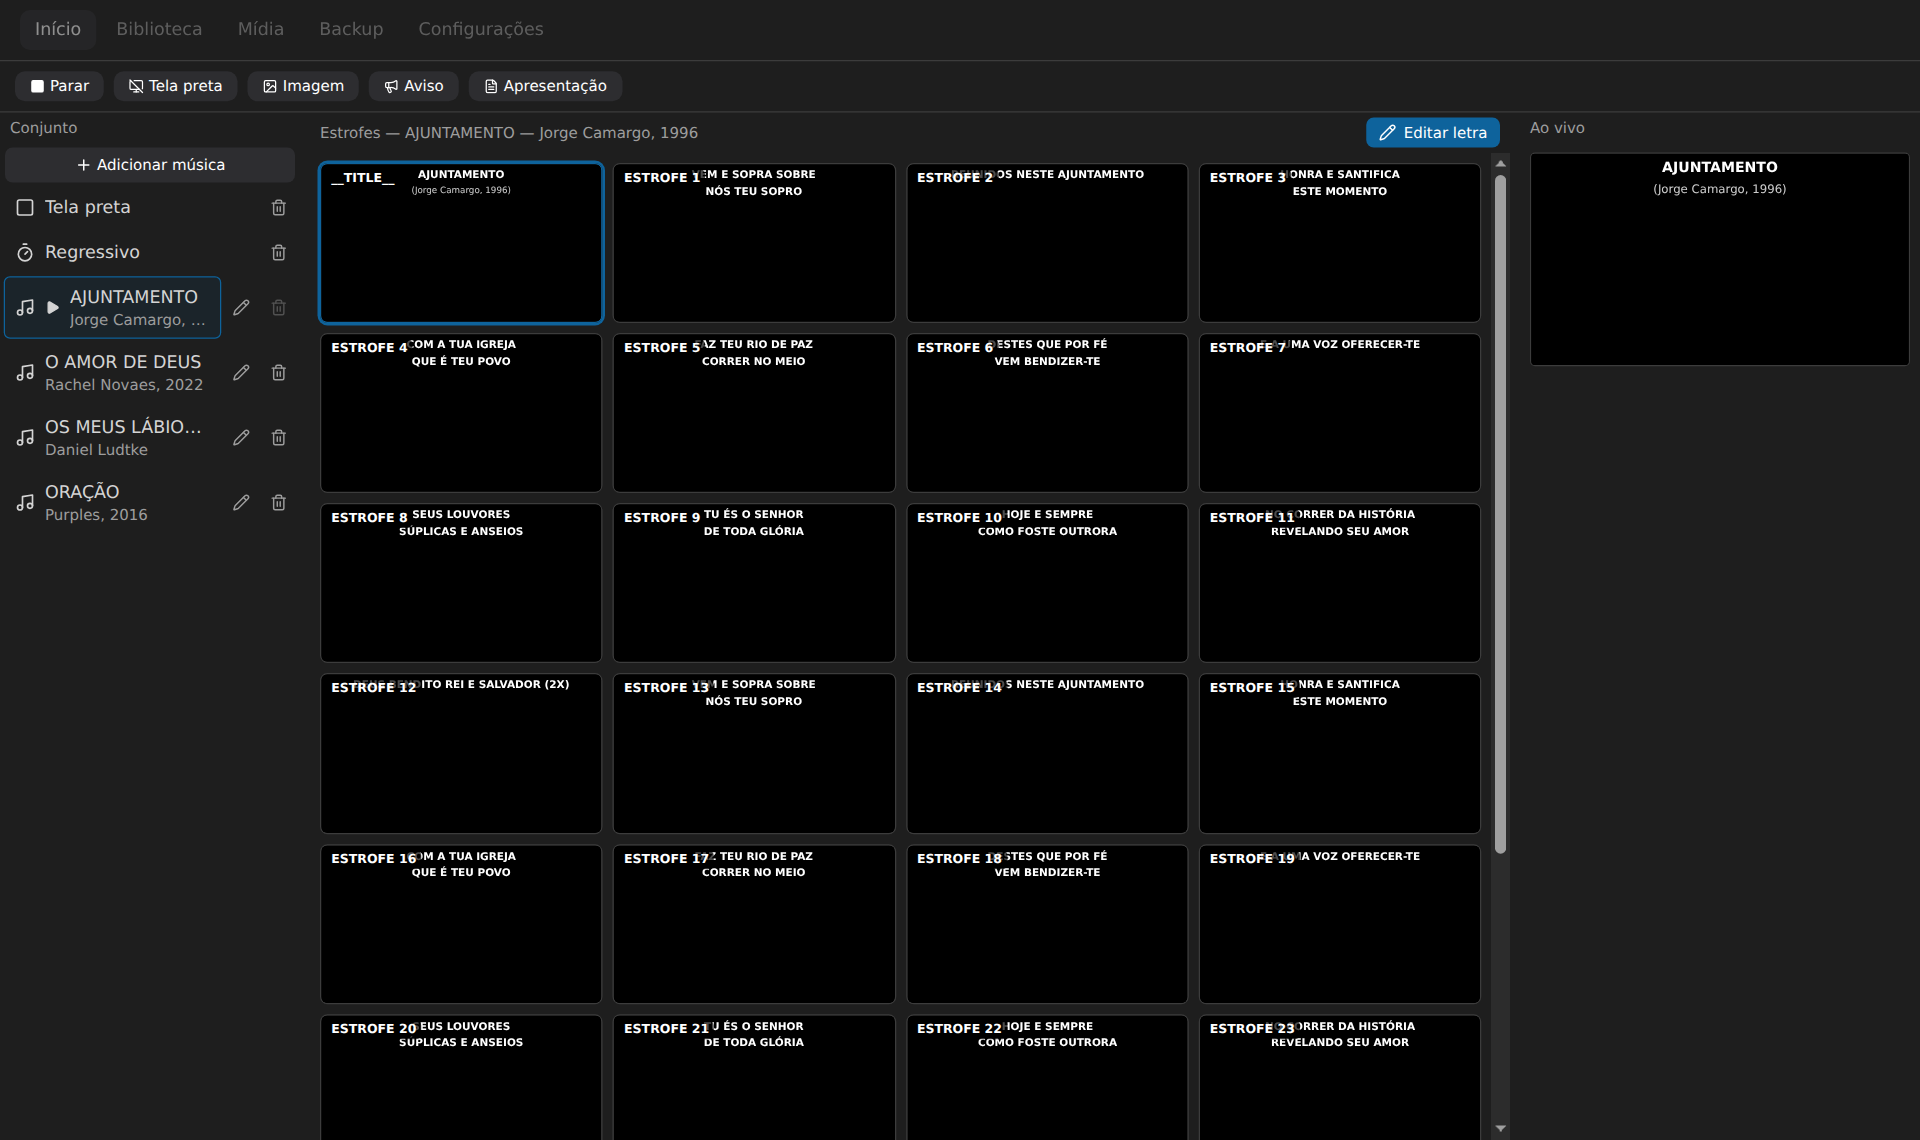
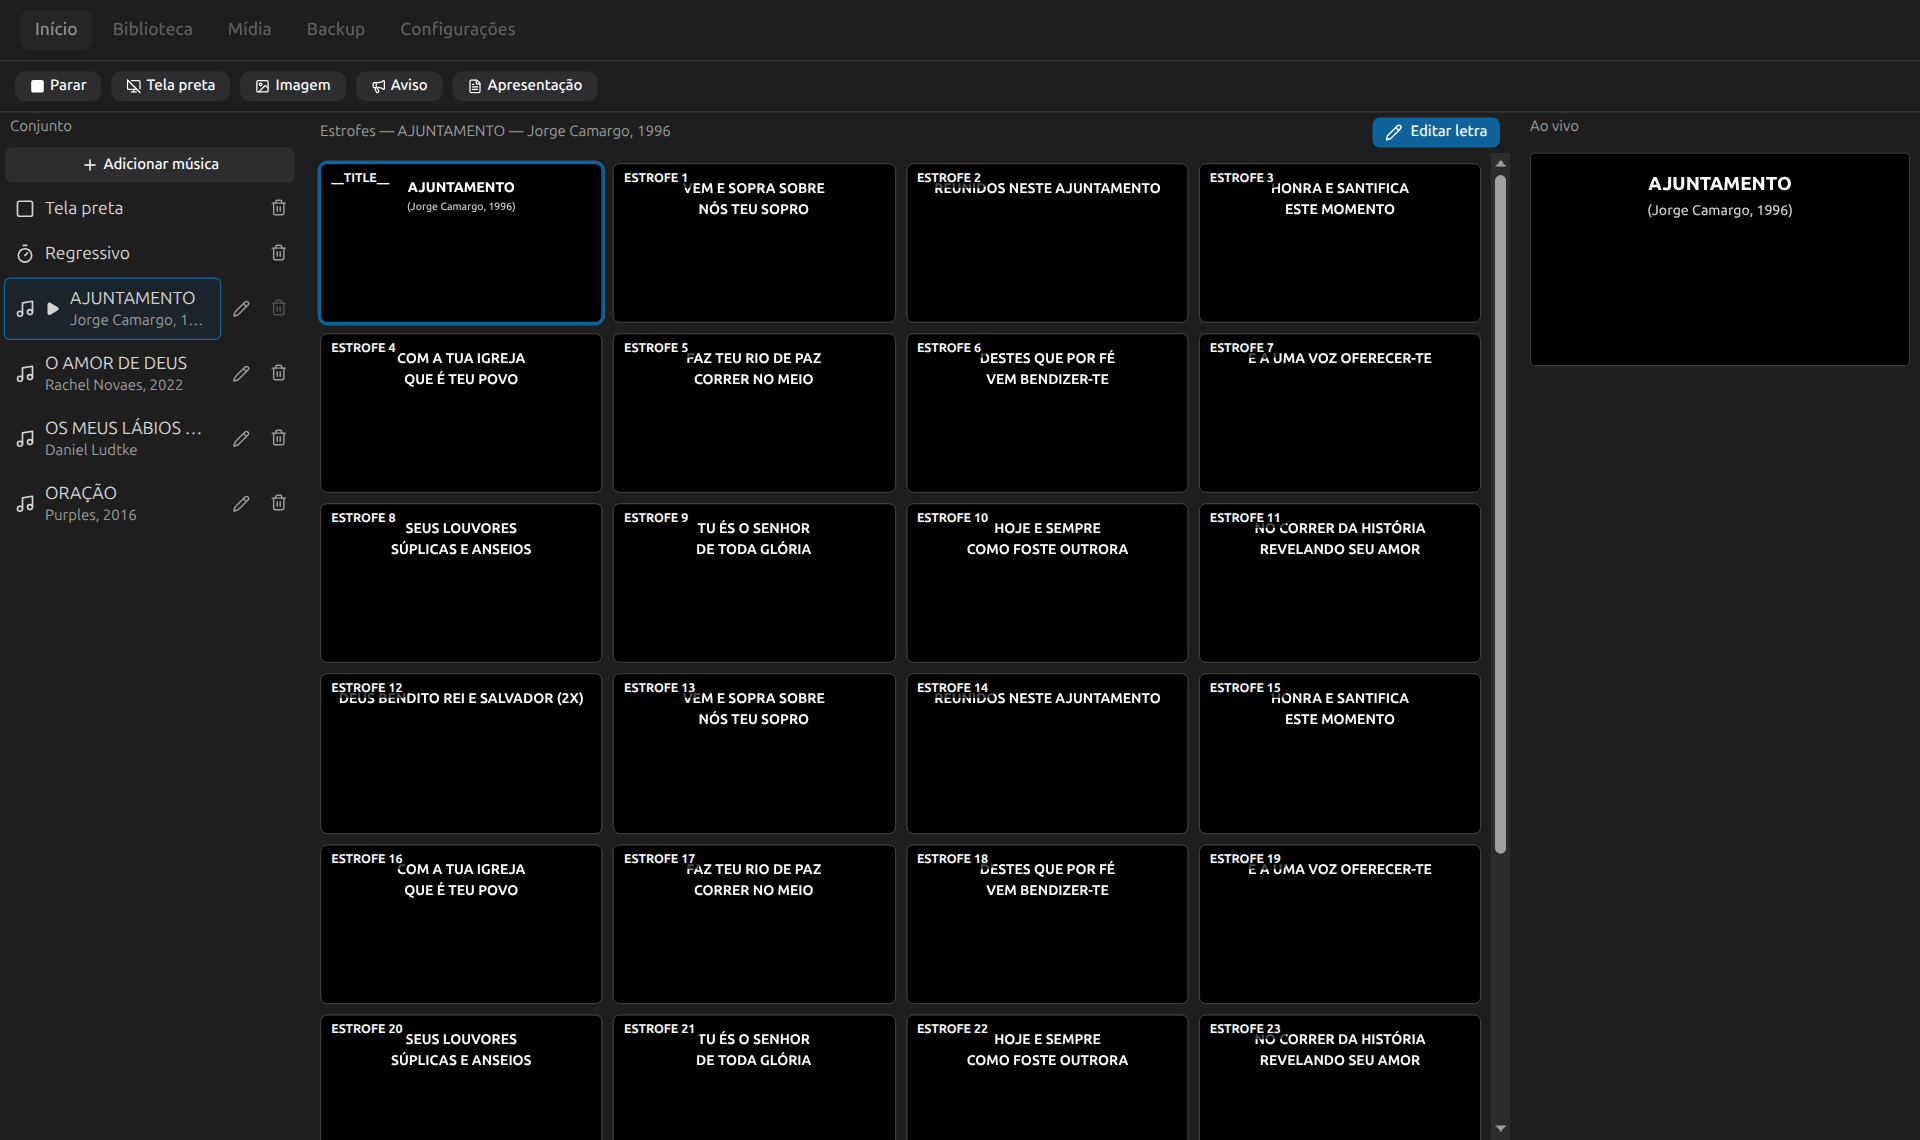
docs(specs): close phase22 verification findings and retake the screen

diff --git a/.specs/features/phase22-live-song-edit-grid/verification.md b/.specs/features/phase22-live-song-edit-grid/verification.md
@@ -9,9 +9,9 @@
 
 | Finding | Evidence | Fix | Closed |
 | --- | --- | --- | --- |
-| When the song on screen is saved with a strophe inserted above the one on screen, the wall stays on the right strophe at `HEAD`, but no test fails if the refresh stops following the anchor and the wall jumps to another strophe (AC 3, and the assumption "saving the song on screen updates the wall and keeps its strophe") | mutation `resolve_anchor(new_item_slides, anchor.as_ref(), …)` -> `resolve_anchor(new_item_slides, None, …)` (`presentation.rs:556`) is not killed by C4/C5 (`commands::set::tests::live_song_edit`). It is not killed by the full `cargo test --lib` (385 tests) either. C5 changes the text of the strophe on screen, so it falls back to the old index with or without the anchor. C4 appends a strophe after the one on screen | add an AC 3 check: a 6-strophe song live on strophe 5 gets a new strophe at position 2, so the output moves to `current_slide_index` 6 with `current_slide` "estrofe 5" and `next_slide` "estrofe 6". At `HEAD` this throwaway example gives exactly that | |
-| AC 3 and D-88 break on a frozen output. When the wall is frozen on the edited song, it shows stale text or the wrong strophe | throwaway Rust tests over `refresh_song_in_outputs_core` with a 6-strophe song S: (a) wall frozen on S strophe 5 (`frozen_at (0,5)`), operator on another song T, strophe 5 corrected to "estrofe cinco" -> the wall's `current_slide` still reads "estrofe 5" while the stored slide reads "estrofe cinco" (`current_slide` is recomputed only when the operator's current item was regenerated). (b) Wall frozen on S strophe 5, operator on S slide 2, strophe inserted above -> `frozen_at` stays `(0,5)` and the wall now shows "estrofe 4" (`frozen_at` is never anchored). The row edit control makes (a) one click away: freezing first is the workflow the plan's Problem describes | in `refresh_song_in_outputs_core`, when `frozen_at.0` is a regenerated item, take its anchor against the old slides, resolve it against the new ones into `frozen_at.1`, and recompute `current_slide`/`next_slide` when either the current item or the frozen item was regenerated. Add a check covering (a) and (b) | |
-| The plan's `Changes underneath` says "With few slides nothing changes". That is false for every song whose cards fit in 2 or more rows, the common case | headless Chromium (chrome-headless-shell 1234), using the grid's compiled CSS (Tailwind 4.3.0 `auto-rows-max` -> `grid-auto-rows: max-content`, checked). 9 cards in a 944×760 pane: with the old `auto` rows the grid stretched each row to fill the pane, a 243 px row pitch for 128 px cards (about 115 px of empty space under each row). With `max-content` rows they pack at the top, a 136 px pitch. Only the 1-row case (AC 8's "3 cards") looks the same | correct the plan's `layout` row (rule 4) to say songs that fit now pack at the top instead of spreading over the pane, and tell the user. The walk can add a 2- or 3-row song | |
+| When the song on screen is saved with a strophe inserted above the one on screen, the wall stays on the right strophe at `HEAD`, but no test fails if the refresh stops following the anchor and the wall jumps to another strophe (AC 3, and the assumption "saving the song on screen updates the wall and keeps its strophe") | mutation `resolve_anchor(new_item_slides, anchor.as_ref(), …)` -> `resolve_anchor(new_item_slides, None, …)` (`presentation.rs:556`) is not killed by C4/C5 (`commands::set::tests::live_song_edit`). It is not killed by the full `cargo test --lib` (385 tests) either. C5 changes the text of the strophe on screen, so it falls back to the old index with or without the anchor. C4 appends a strophe after the one on screen | add an AC 3 check: a 6-strophe song live on strophe 5 gets a new strophe at position 2, so the output moves to `current_slide_index` 6 with `current_slide` "estrofe 5" and `next_slide` "estrofe 6". At `HEAD` this throwaway example gives exactly that || `43fa952` - C20 (`live_song_edit_on_air_follows_an_inserted_strophe`) kills the anchor mutation |
+| AC 3 and D-88 break on a frozen output. When the wall is frozen on the edited song, it shows stale text or the wrong strophe | throwaway Rust tests over `refresh_song_in_outputs_core` with a 6-strophe song S: (a) wall frozen on S strophe 5 (`frozen_at (0,5)`), operator on another song T, strophe 5 corrected to "estrofe cinco" -> the wall's `current_slide` still reads "estrofe 5" while the stored slide reads "estrofe cinco" (`current_slide` is recomputed only when the operator's current item was regenerated). (b) Wall frozen on S strophe 5, operator on S slide 2, strophe inserted above -> `frozen_at` stays `(0,5)` and the wall now shows "estrofe 4" (`frozen_at` is never anchored). The row edit control makes (a) one click away: freezing first is the workflow the plan's Problem describes | in `refresh_song_in_outputs_core`, when `frozen_at.0` is a regenerated item, take its anchor against the old slides, resolve it against the new ones into `frozen_at.1`, and recompute `current_slide`/`next_slide` when either the current item or the frozen item was regenerated. Add a check covering (a) and (b) || `43fa952` - the refresh re-anchors `frozen_at` and recomputes the wall's slide when the frozen item is regenerated; C21 (`live_song_edit_keeps_a_frozen_wall_on_its_strophe`) covers (a) and (b) |
+| The plan's `Changes underneath` says "With few slides nothing changes". That is false for every song whose cards fit in 2 or more rows, the common case | headless Chromium (chrome-headless-shell 1234), using the grid's compiled CSS (Tailwind 4.3.0 `auto-rows-max` -> `grid-auto-rows: max-content`, checked). 9 cards in a 944×760 pane: with the old `auto` rows the grid stretched each row to fill the pane, a 243 px row pitch for 128 px cards (about 115 px of empty space under each row). With `max-content` rows they pack at the top, a 136 px pitch. Only the 1-row case (AC 8's "3 cards") looks the same | correct the plan's `layout` row (rule 4) to say songs that fit now pack at the top instead of spreading over the pane, and tell the user. The walk can add a 2- or 3-row song || `43fa952` - plan `Changes underneath` corrected; user chose "Pack at the top (Recommended)" (2026-10-28, checks.md Settled mid-build); C22 walks 9 cards packed at a 138.3 px pitch |
 
 Probed without a finding:
 - The no-overlap rule (AC 8) held at four sizes neither the plan nor the checks name. In each case `max-content` rows gave 0 overlapping cards, every card was 16:9 within 1 px, and the last card could be reached by scrolling. Old `auto` rows overlapped in every case:

diff --git a/.specs/features/phase22-live-song-edit-grid/checks.md b/.specs/features/phase22-live-song-edit-grid/checks.md
@@ -127,4 +127,4 @@ Proof: `grep -Eq '^## Phase 22: .* — RELEASED \(`v1\.9\.0`\)$' .specs/project/
 - **Dispatched:** Verifier (independent sub-agent) at `8f4e4e7`, 2026-10-28 - returned: FAIL, 3 findings, 2/3 mutations killed; screens round 1 (independent sub-agent) at `8f4e4e7`, pictures taken at `cfb5823` (later commits touch no screen code), 2026-10-28 - returned: diverges, 1 row (the `ESTROFE N` badge hides the first letters of the first lyric line; the capture shows them in full)
 - **Boundary:** C1-C15 closed at `cfb5823` (C4, C5 at `80f42aa`; C1-C3, C6-C10 at `8483eb5`; C11-C15 at `cfb5823`); C16 closed at `0a3ce29`; C17-C19 wait for the release
 - **Abandoned:** none. One proof selector fixed after the first `check_proofs.py` run: C7's second `-t` filter had unescaped parentheses, which vitest reads as a regex group, so it selected no test; the claim is unchanged
-- **Walked:** 2026-10-28 at `cfb5823`, in Chrome Headless Shell 151 driven over CDP against the real operator app (`src/main.tsx`) served by Vite, with the backend replaced by `@tauri-apps/api/mocks` (a local harness under `.harness/`, excluded from git). The user reaches each state by presenting a set whose current song has that many slides. (1) 30 cards at a 1536×912 window, 125% scale: 4 columns, cards 226.3×128.1 px, row pitch 136.1 px, 0 overlaps, 0 cards off 16:9, the last card reachable by scrolling, computed `grid-auto-rows: max-content`; the same state at the parent commit measured a 97.8 px pitch and 26 overlapping pairs. (2) 60 cards at 1280×720: 2 columns, 332.5×187.9 px, 0 overlaps, last card reachable. (3) 3 cards at 1536×912: one row at the top of the pane (8 px offset), full 230×130.3 px, no scroll. (4) 30 cards at 1024×700: 1 column, 0 overlaps. (5) In the 30-card state, `Tela preta` sent `set_presentation_mode {mode: "blank", output: "one"}` and `Parar` sent `exit_presentation {output: "one"}`. (6) The row edit: the pencil on O AMOR DE DEUS opened `Editar música` with that song, sent only `get_song {id: s-amor}` (no `go_to_item`), and the set pane still marked AJUNTAMENTO current; X closed it and sent nothing; the pencil on AJUNTAMENTO (on screen) then `Salvar` sent `update_song` and `list_songs` and closed the dialog. `captures/operator-many-slides.running.png` is state (1). The capture's top strip, the Windows title bar, is outside the webview, so the picture starts at the nav tabs. Fonts are the Linux fallbacks, not Windows' Segoe UI
+- **Walked:** 2026-10-28 at `43fa952` (code unchanged since), in Chrome Headless Shell 151 driven over CDP against the real operator app (`src/main.tsx`) served by Vite, with the backend replaced by `@tauri-apps/api/mocks` (a local harness under `.harness/`, excluded from git). The sample data recreates the capture: the `black` theme, lyric size `xl`, margin `lg`, position top-center, bold, and Ubuntu Sans in place of Segoe UI (the Linux fallback, DejaVu Sans, is about 20% wider; Ubuntu Sans measured 141.9 px for `VEM E SOPRA SOBRE` against the capture's 140). The user reaches each state by presenting a set whose current song has that many slides. (1) 30 cards at a 1536×912 window, 125% scale: 4 columns, cards 226.3×128.1 px, row pitch 136.1 px, 0 overlaps, 0 cards off 16:9, the last card reachable by scrolling, computed `grid-auto-rows: max-content`; at `8f2872e` (before the fix) the same state measured a 97.8 px pitch and 26 overlapping pairs. (2) 60 cards at 1280×720: 2 columns, 332.5×187.9 px, 0 overlaps, last card reachable. (3) 3 cards at 1536×912: one row 8 px below the pane's top, 230×130.3 px, no scroll. (4) 9 cards at 1536×912 (C22): 4 columns, row pitch 138.3 px = card height + 8, first row 8 px below the top, no scroll. (5) 30 cards at 1024×700: 1 column, 0 overlaps. (6) In the 30-card state, `Tela preta` sent `set_presentation_mode {mode: "blank", output: "one"}` and `Parar` sent `exit_presentation {output: "one"}`. (7) The row edit: the pencil on O AMOR DE DEUS opened `Editar música` with that song and sent only `get_song {id: s-amor}` (no `go_to_item`), and the set pane still marked AJUNTAMENTO current; X closed it and sent nothing; the pencil on AJUNTAMENTO (on screen), then `Salvar`, sent `update_song` and `list_songs` and closed the dialog. `captures/operator-many-slides.running.png` is state (1), retaken at `43fa952` after screens round 1. The capture's top strip is the Windows title bar, outside the webview, so the picture starts at the nav tabs

diff --git a/.specs/features/phase22-live-song-edit-grid/plan.md b/.specs/features/phase22-live-song-edit-grid/plan.md
@@ -179,7 +179,7 @@ Both changes reach every installation as one release.
 
 | Source shows | Product shows | Confirmed |
 | --- | --- | --- |
-| Song rows in the `Conjunto` pane with the remove control only | Song rows with an edit control (pencil) left of the remove control, so in the 240 px pane a song's title and artist truncate about 30 px sooner (`OS MEUS LÁBIO…`, `Jorge Camargo, …` on the row on screen); `Tela preta` and `Regressivo` rows unchanged | y - AD-091 |
+| Song rows in the `Conjunto` pane with the remove control only | Song rows with an edit control (pencil) left of the remove control, so in the 240 px pane a song's title and artist truncate about 30 px sooner (in the picture: `OS MEUS LÁBIOS …`, and `Jorge Camargo, 1…` on the row on screen); `Tela preta` and `Regressivo` rows unchanged | y - AD-091 |
 | Strophe cards overlapping: rows 95 CSS px apart for 127 CSS px cards, each card hiding the bottom of the one above | Rows as tall as their cards, so no card overlaps another; fewer rows fit and the pane scrolls | y - AD-092 |
 
 ## Sources
